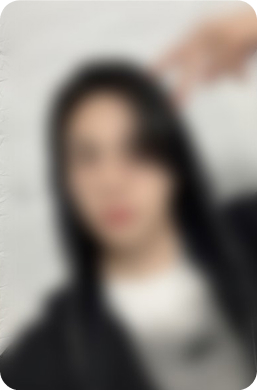
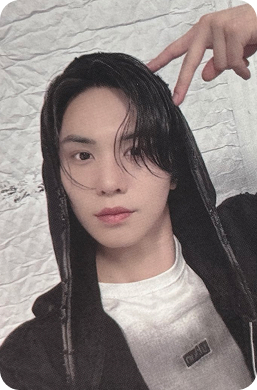
udate

diff --git a/src/app/app.component.ts b/src/app/app.component.ts
@@ -6,6 +6,7 @@ import { rockystPC } from './../assets/records/rockyst-pc';
 import { blankPC } from './../assets/records/blank-pc';
 import { astroAlbumPC, astroNonAlbumPC } from './../assets/records/astro-album-pc';
 import { arohaPC, sgPC, astroadPC, aafPC, rorohaPC, magzPC, othersPC} from './../assets/records/astro-non-album-pc';
+import { HostListener, ElementRef, ViewChild } from '@angular/core';
 
 @Component({
   selector: 'app-root',
@@ -13,8 +14,14 @@ import { arohaPC, sgPC, astroadPC, aafPC, rorohaPC, magzPC, othersPC} from './..
   styleUrls: ['./app.component.css']
 })
 export class AppComponent {
-  update = '250801';
+  update = '250804';
   public template = 'Rocky album photocards';
+  public tabSelected = 0;
+  showToDo = false;
+  showNote = false;
+  note = `250804 <br>
+  Photocards from the LATAM Tour 2025 will be added <br>
+  after the concert concludes due to limited available information.`;
 
   private albumPC = albumPC
   private nonAlbumPC = nonAlbumPC
@@ -59,6 +66,18 @@ export class AppComponent {
   selectedAstroPC: string[] = [
     'showAstroAlbumPC', 'showNonAstroAlbumPC', 'showArohaPC', 'showSGPC', 'showAstroadPC', 'showAAFPC', 'showRorohaPC', 'showMagPC', 'showOthersPC'
   ]
+
+  constructor(private eRef: ElementRef) {}
+
+  @ViewChild('stickyDiv', { static: true }) stickyDiv!: ElementRef;
+  @HostListener('document:click', ['$event'])
+  handleClickOutside(event: MouseEvent) {
+    if (!this.stickyDiv.nativeElement.contains(event.target)) {
+      this.showNote = false;
+      this.showToDo = false;
+    }
+  }
+
   ngOnInit() {
     this.loadPhotoGroup(this.albumPC, 'albumPC')
     this.loadPhotoGroup(this.nonAlbumPC, 'nonAlbumPC')
@@ -187,30 +206,49 @@ export class AppComponent {
   }
 
   public onTabChange(index: number){
+    this.tabSelected = index;
     switch (index) {
       case 0:
         this.template = 'Rocky album photocards'
         break;
       case 1:
-        this.template = 'Rocky non-album photocards';
+        this.template = 'Rocky non-album photocards'
         break;
       case 2:
-        this.template = 'Rockyst event photocards';
+        this.template = 'Rockyst event photocards'
         break;
       case 3:
-        this.template = 'Blank event photocards';
+        this.template = 'Blank event photocards'
         break;
       case 4:
-        this.template = 'ASTRO photocards';
+        this.template = 'ASTRO photocards'
         break;
       default:
-        this.template = 'Rocky album photocards';
+        this.template = 'Rocky album photocards'
     }
   }
 
   onChangeDislay(selected: string[]) {
     this.selectedAstroPC = selected;
+  }
 
+  refresh(){
+    setTimeout(() => this.forceReloadImages(), 100);
+  }
+
+
+
+  forceReloadImages() {
+    const tabContent = document.querySelectorAll('.mat-tab-body-active img');
+    tabContent.forEach((el) => {
+      const img = el as HTMLImageElement; // Cast to HTMLImageElement
+
+      const src = img.getAttribute('src');
+      if (src) {
+        const baseSrc = src.split('?')[0]; // Remove any existing query string
+        img.src = `${baseSrc}?t=${new Date().getTime()}`;
+      }
+    });
   }
 
   get showAstroAlbumPC(): boolean {

diff --git a/src/app/app.component.html b/src/app/app.component.html
@@ -1,4 +1,5 @@
 
+
 <div id="rocky-photocards">
   <div color="primary" class="header m-b-10">
     <img [src]="'assets/logo.png'" class="logo">
@@ -169,5 +170,37 @@
     </mat-tab>
   </mat-tab-group>
 </div>
-<button mat-raised-button (click)="captureAndDownload()" class="download-btn"><mat-icon>file_download</mat-icon> Template</button>
+<div class="sticky" #stickyDiv>
+  <button mat-icon-button (click)="captureAndDownload()"><mat-icon>file_download</mat-icon></button>
+  <button mat-icon-button (click)="showNote = !showNote; showToDo = showNote && showToDo ? !showToDo : showToDo"><mat-icon>announcement</mat-icon></button>
+  <button mat-icon-button (click)="showToDo = !showToDo; showNote = showNote && showToDo ? !showNote : showNote"><mat-icon>help</mat-icon></button>
+  <button mat-icon-button (click)="refresh()"><mat-icon>refresh</mat-icon></button>
+</div>
+
+<div *ngIf="showToDo" class="note">
+  This site is maintained by a single creator, @lilpeachyukie. <br>
+  If there any missing photocard or incorrect information, <br>
+  feel free to send a DM on X/IG. <br>
+  Please note that the photocard images do not belong to the creator. 
+  They have been sourced from various platforms and contributors.<br> 
+  <br> 
+  Sharing this site’s link is sincerely appreciated.<br> 
+  Thank you! 💗<br>
+  <br>
+  Before download the template,<br>
+  (Highly recommended)<br>
+  1. Open in desktop (computer/laptop).<br> 
+  2. Adjust screen size according to your preference.<br> 
+  3. Click Download button.
+  <br>
+  or
+  <br>
+  1. Open in mobile, and set to view to the desktop view<br>
+  2. Click Download button
+</div>
+
+<div *ngIf="showNote" class="note">
+<div [innerHTML]="note"></div>
+</div>
+
 <div id="loader" class="loader"><div class="spinner"></div> </div>

diff --git a/src/app/app.component.css b/src/app/app.component.css
@@ -11,11 +11,20 @@
 .logo{
   width: 195px;
 }
+
+.refresh-btn{
+  position: absolute;
+  color: white;
+  z-index: 1000000;
+  right: 1em;
+  top: 1em;
+}
+
 .gallery {
   display: flex;
   flex-wrap: wrap;
   gap: 8px;
-  padding: 20px 5px;
+  padding: 20px 5px 50px;
   justify-content: center;
 
   img {
@@ -110,6 +119,32 @@ mat-card {
   animation: spin 1s linear infinite;
 }
 
+.sticky{
+  position: fixed;
+  z-index: 10000;
+  background-color: black;
+  display: flex;
+  color: white;
+  width: 13em;
+  right: 0em;
+  bottom: 0em;
+  height: 3em;
+}
+
+.note{
+  display: flex;
+  position: fixed;
+  background: rgba(0, 0, 0, 0.87);
+  z-index: 10000;
+  width: fit-content;
+  bottom: 4em;
+  right: 0em;
+  padding: 10px;
+  border-radius: 1em;
+  font-size: 12px;
+  color: white;
+}
+
 @keyframes spin {
   0% { transform: rotate(0deg); }
   100% { transform: rotate(360deg); }
@@ -165,4 +200,9 @@ mat-card {
     display: block;
     bottom: 1em;
   }
+
+  .note{
+    width: 30em
+  }
+
 }

diff --git a/src/index.html b/src/index.html
@@ -2,7 +2,7 @@
 <html lang="en">
 <head>
   <meta charset="utf-8">
-  <title>RockyPhotocards</title>
+  <title>Rocky Photocards</title>
   <base href="/rocky-photocards/">
   <!-- <base href="/"> -->
   <meta name="viewport" content="width=device-width, initial-scale=1">
@@ -10,6 +10,13 @@
   <link rel="preconnect" href="https://fonts.gstatic.com">
   <link href="https://fonts.googleapis.com/css2?family=Roboto:wght@300;400;500&display=swap" rel="stylesheet">
   <link href="https://fonts.googleapis.com/icon?family=Material+Icons" rel="stylesheet">
+
+  <meta property="og:image" content="https://lilpeachyukie.github.io/rocky-photocards/assets/thumbnail.jpg">
+  <meta property="og:url" content="https://lilpeachyukie.github.io/rocky-photocards/">
+  <meta property="og:type" content="website">
+
+  <!-- Twitter Card -->
+  <meta name="twitter:card" content="summary_large_image">
 </head>
 <body class="mat-typography">
   <app-root></app-root>

diff --git a/src/app/app.module.ts b/src/app/app.module.ts
@@ -8,6 +8,7 @@ import { MatTooltipModule } from '@angular/material/tooltip';
 import { MatIconModule } from '@angular/material/icon';
 import { MatButtonModule } from '@angular/material/button';
 import { MatSelectModule } from '@angular/material/select';
+import { MatMenuModule } from '@angular/material/menu';
 
 import { AppComponent } from './app.component';
 
@@ -23,6 +24,7 @@ import { AppComponent } from './app.component';
     MatIconModule,
     MatButtonModule,
     MatSelectModule,
+    MatMenuModule
   ],
   providers: [],
   bootstrap: [AppComponent]
